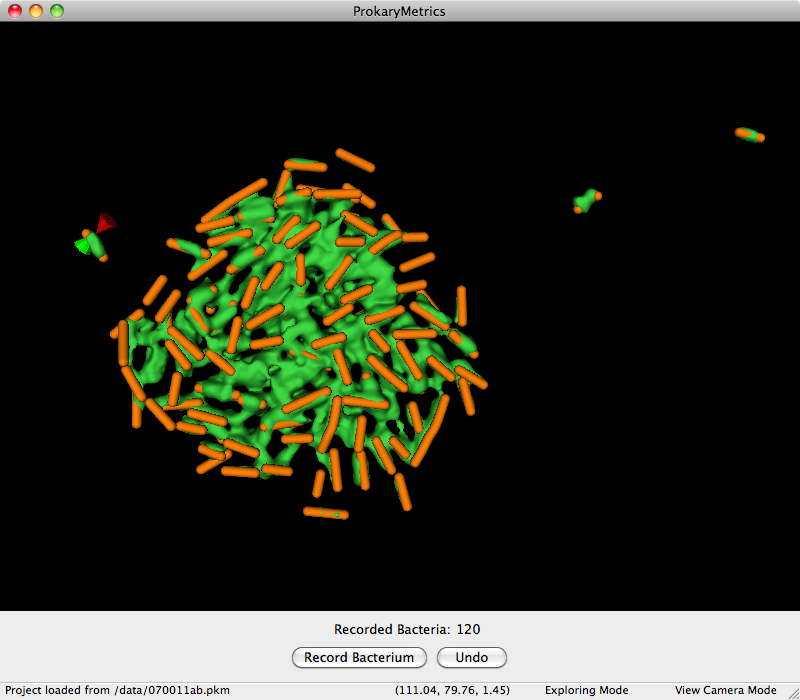
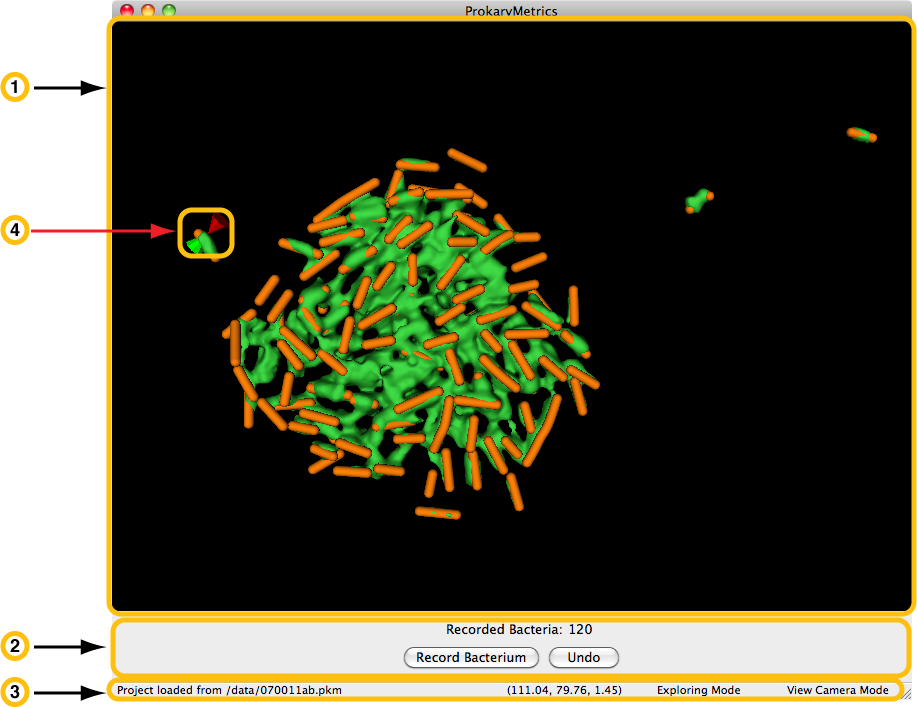
completed intro and updated index and interaction

diff --git a/interaction.rst b/interaction.rst
@@ -1,8 +1,81 @@
 Data Interaction
 ================
+The main purpose behind 3D rendering of microbial communities is to be 
+able to interact with the data (rotating, zooming, cropping, etc...) in 
+order to gain an understanding of your data that may not be possible 
+through viewing 2D slices. This section describes the facilities 
+ProkaryMetrics provides to allow you to explore your data.
 
 Exploring the Rendered Image Data
 ---------------------------------
+The mouse is the main means of interacting with rendered image data. The 
+few keyboard commands available will be discussed as appropriate in this 
+section. A list of all the keyboard commands is at the end of this 
+section with a short description of each key's purpose.
+
+Rotating Image Data
+^^^^^^^^^^^^^^^^^^^
+Imagine the the rendered image data is contained within a transparent 
+hamster ball floating in space. If you grab the hamster ball, you can 
+rotate it in any direction and the image data will rotate along with it. 
+In ProkaryMetrics, you can use the mouse to rotate the hamster ball. 
+Begin by left-clicking (and holding the mouse button down) anywhere 
+within the Visualization Window. While holding the button, move the mouse 
+and any data in the window will rotate in the direction you are moving 
+the mouse. The first example below shows an initial rendering of a sample 
+image set with the cursor near one bacterium.
+
+.. figure:: figures/di_rotating_before.png
+   :scale: 50 %
+   
+In the next image, the data has been rotated counter-clockwise 
+approximately 90 degrees, and rotated away from the user (into the 
+screen) approximately 45 degrees.
+   
+.. figure:: figures/di_rotating_after.png
+   :scale: 50 %
+   
+Magnification
+^^^^^^^^^^^^^
+Zooming in and out can be accomplished either with the mouse wheel (up to 
+zoom in, down to zoom out) or by right-clicking and dragging with the 
+mouse. Dragging up zooms in, dragging down zooms out. Zooming with the 
+mouse wheel generally results in larger magnification steps. Zooming 
+with the right mouse button gives you smoother magnification and slightly 
+more control over how far it zooms in and out.
+
+This screenshot shows the original data from above, magnified.
+
+.. figure:: figures/di_zoom.png
+   :scale: 50 %
+   
+Moving Data
+^^^^^^^^^^^
+Especially when magnifying data, in order to get the best view it is very 
+useful to translocate the rendered data. In other words, moving the data 
+up/down or left/right in order to center a particular section of interest 
+within the Visualization Window. This can be accomplished with a third 
+mouse button. Typically this button is in the middle of the mouse, and 
+in mice with wheels, may be accessed by pressing down on the wheel 
+itself. For mice with more than three buttons, this action is mapped 
+to whichever button is assigned to be mouse button 3. The first image 
+below shows the sample data set as was shown previously.
+
+.. figure:: figures/di_rotating_before.png
+   :scale: 50 %
+
+The second image shows the data after being moved over to the right. 
+Notice that neither the orientation nor the magnification level has 
+changed.
+
+.. figure:: figures/di_move.png
+   :scale: 50 %
+   
+Rendering Settings
+^^^^^^^^^^^^^^^^^^
+You can.
+
+.. figure:: figures/di_render_settings.png
 
 Image Sets as Layers
 --------------------
@@ -14,7 +87,36 @@ Marking and Recording Bacteria
 
 Capturing Screenshots
 ---------------------
+To export an image of the current state of the Visualization Window, 
+click on the Tools >> Take Screenshot menu option. ProkaryMetrics 
+supports saving screenshots as PNG, JPEG, TIFF, PNM, PostScript, or BMP.
 
 
-Keyboard Shortcuts Reference
+Keyboard Commands Reference
 ----------------------------
+**A**
+	Toggle anti-aliasing mode. Anti-aliasing greatly improves image 
+	quality at the expense of smooth interaction. Depending on the 
+	graphics card and processor speed of your computer, turning this 
+	mode on may make interacting with your data extremely slow. For most 
+	computers it is only recommended for taking high-resolution 
+	screen captures for publication or magnification (e.g. posters).
+
+**D**
+	Delete the recorded bacterium nearest to the cursor. This is only 
+	effective to a certain radius around the cursor, so you should place 
+	it fairly close, if not directly on, the bacterium you want to delete.
+	
+**I**
+	Toggle the clipping box. This key displays and hides a wireframe box 
+	that is drawn such that it initially contains within it all the 
+	rendered image data. The box also includes spherical handles that you 
+	can grab with the mouse and drag to expand or decrease the volume of 
+	the box. If a plane of the box crosses over any rendered image data, 
+	that data is made invisible. Expanding the box will reveal again any 
+	previously hidden image data. This allows you to focus on specific 
+	regions of your data, which can be helpful especially in large or 
+	especially noisy data.
+
+**X**
+	Toggle between E\ **x**\ ploring mode and Recording mode.

diff --git a/data.rst b/data.rst
@@ -13,11 +13,69 @@ File >> Open Image File(s)... menu item. Since a z-stack is expected,
 the file selection dialog will accept multiple file selection.
 
 .. figure:: figures/data_fig1_openfile.png
-   :scale: 60 %
+   :scale: 80 %
    
- Projects
- --------
+Clicking the "Open" button will cause ProkaryMetrics to attempt to load 
+the specified image files, and render a 3D surface representation of the 
+fluorescent pixels (see the User Interface subsection in the Introduction 
+section). Currently, ProkaryMetrics has a default pixel-brightness level 
+it uses when performing the 3D reconstruction, which will not be 
+appropriate for all image data. Particularly, 8-bit image data which only 
+has pixel values between 0 and 127 will not be properly reconstructed 
+initially. If the reconstructed data does not look right, or does not 
+appear at all, you can modify the pixel value used to perform the 
+reconstruction. This and other user-modifiable settings are described in 
+detail in the Data Interaction section. Eventually the initial value will 
+be intelligently chosen using the content of the image data itself, but 
+users may still want to tweak the setting.
+   
+Projects
+--------
+Once you have loaded some image data and maybe marked some bacteria, 
+you will want to save your work. ProkaryMetrics supports saving and 
+loading of project files. A project consists of the current state of the 
+program including all loaded image files, any recorded bacteria, and any 
+modified settings. Both saving and loading projects can be done through 
+the File menu. 
+
+Note that ProkaryMetrics does not store a copy of the loaded image data, 
+it merely stores the location of each loaded image file. This means when 
+you load a previously saved project file ProkaryMetrics will look for the 
+image data in the location it was when you saved the project. If the 
+images have been moved or deleted it will pop up a message telling you it 
+cannot locate them, and will give you the option to select the folder 
+they have been moved to. If it can find all the images in the new 
+location, it will load them and continue loading the rest of the project 
+information.
  
- 
- Exporting
- ---------
+Exporting
+---------
+Given that one of the main goals of ProkaryMetrics is to provide 
+quantitative and statistical information about microbial communities, 
+it is often useful to use that data in other software for additional 
+analysis or display. To this end, ProkaryMetrics provides the facility to 
+export certain data. Currently, this includes: bacteria and lengths. Both 
+options are available through the File >> Export menu.
+
+Bacteria
+^^^^^^^^
+Exporting bacteria will result in a file that lists the marked end and 
+interior points for each bacterium. Each line corresponds to an 
+individual bacterium, and each line is a comma-separated list of 3-tuples 
+that indicate the X, Y, and Z coordinates of each marker that makes up 
+the recorded bacterium.
+
+::
+
+	1.23, 3.44, 0.65, 18.36, 4.40, 2.21
+	
+This example shows a line of 6 numbers separated by commas. As mentioned 
+above, the line is logically grouped into 3-tuples indicating axis values.
+This line has 6 values, and so indicates two markers representing a 
+single bacterium.
+
+Lengths
+^^^^^^^
+The export lengths option creates a single-column CSV file with a header 
+line of "len". Each line in the file gives the length of a single 
+bacterium in micrometers.

diff --git a/index.rst b/index.rst
@@ -18,6 +18,7 @@ Contents:
 
    intro.rst
    data.rst
+   interaction.rst
    analytics.rst
 
 
